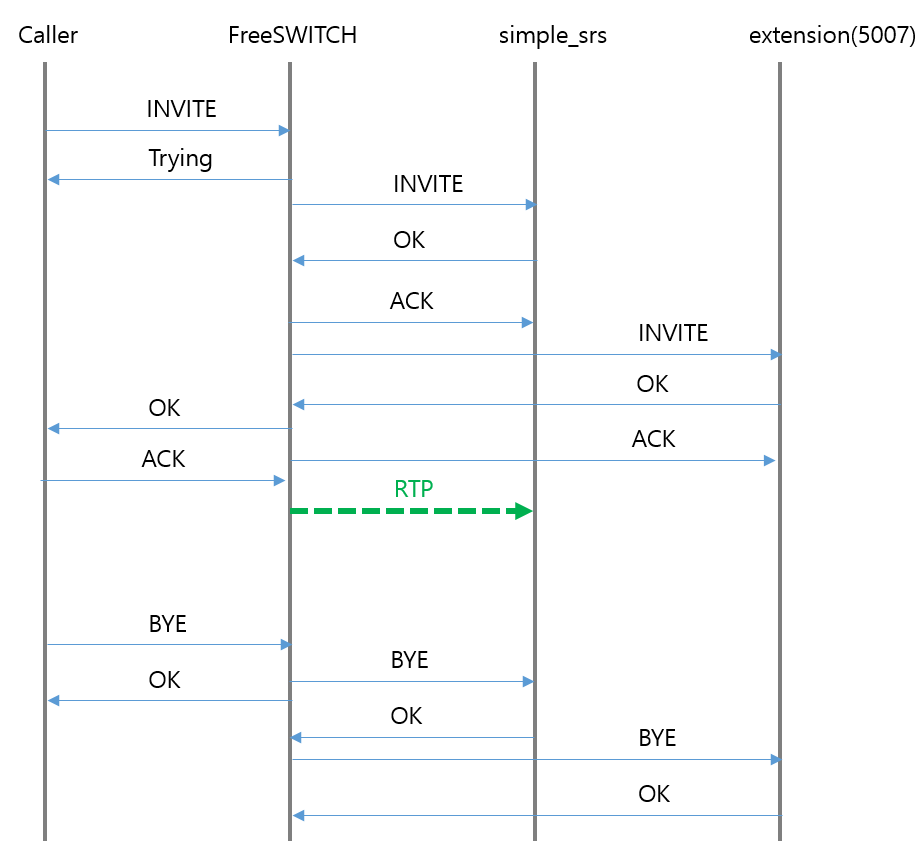
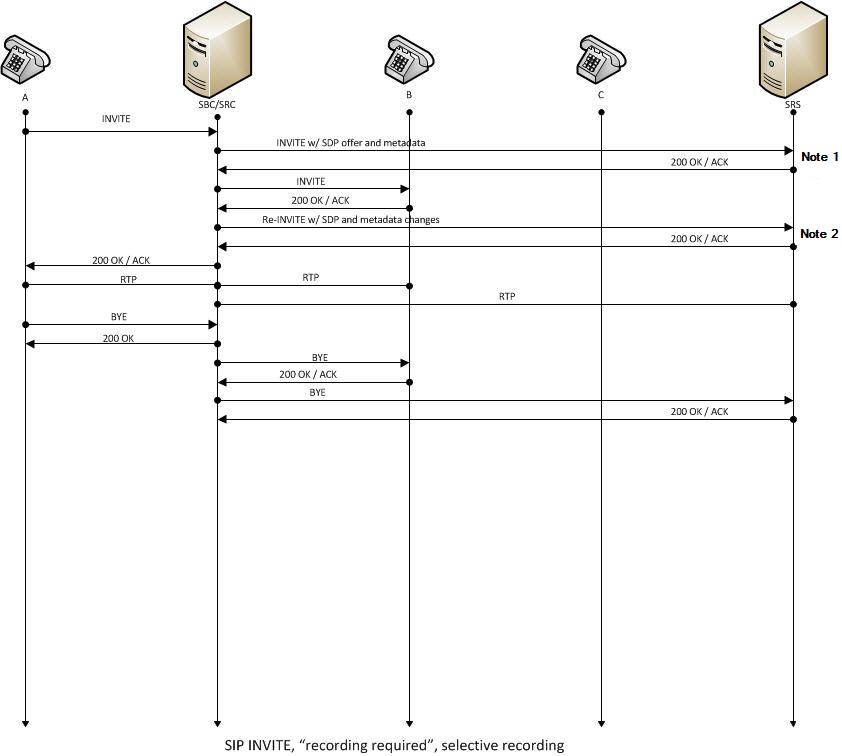
update

diff --git a/FreeSWITCH/Recording using mod_siprec/README.md b/FreeSWITCH/Recording using mod_siprec/README.md
@@ -230,7 +230,96 @@ a=sendonly
 
 <br>
 
-However, in version 1.34, the INVITE message is sent via a single stream (m=1).
+However, in version 1.34, the INVITE message is sent via a single stream (m=1). Looking at the SIPRERC call flow in the latter part, the siprec client sends an INVITE again (reinvite) at the time the actual call is made.
+The second INVITE should send an SDP in Dual stream (m=2) format to reflect that the call has been connected, but in v1.34, all data except the CSeq is sent as an INVITE identical to the first one.
+This part must be corrected.
+
+<br>
+
+📌 **SDP samples in INVITE, (reINVITE)**
+
+
+**First INVITE**
+
+```bash
+Content-Type: application/sdp
+v=0
+o=- 171 213 IN IP4 10.0.0.2
+s=-
+c=IN IP4 10.0.0.1
+t=0 0
+m=audio 6000 RTP/AVP 0
+a=rtpmap:0 PCMU/8000
+a=label:1
+
+Content-Type: application/rs-metadata+xml
+Content-Disposition: recording-session
+<?xml version='1.0' encoding='UTF-8'?>
+<recording xmlns='urn:ietf:params:xml:ns:recording'>
+        <dataMode>complete</dataMode>
+        <session id="urn:uuid:79b2fcd8-5c7f-455c-783f-db334e5d57d0">
+                <start-time>2011-06-27T17:03:57</start-time>
+        </session>
+        <participant id="urn:uuid:10ac9063-76b7-40bb-4587-08ba290d7327" session="urn:uuid:79b2fcd8-5c7f-455c-783f-db334e5d57d0">
+                <aor>sip:sipp@168.192.24.40</aor>
+                <name>sipp </name>
+                <send>urn:uuid:07868c77-ef8e-4d6f-6dd5-a02ff53a1329</send>
+                <start-time>2011-06-27T17:03:57</start-time>
+        </participant>
+        <participant id="urn:uuid:797c45f5-e765-4b12-52b0-d9be31138529" session="urn:uuid:79b2fcd8-5c7f-455c-783f-db334e5d57d0">
+                <aor>sip:service@168.192.24.60</aor>
+                <name>sut </name>
+        </participant>
+        <stream id="urn:uuid:4a72a1ed-abb2-4d7c-5f4d-6d4c36e2d4ec" session="urn:uuid:79b2fcd8-5c7f-455c-783f-db334e5d57d0">
+                <mode>separate</mode>
+                <start-time>2011-06-27T17:03:57</start-time>
+				<label>1</label>
+        </stream>
+</recording>
+```
+
+<br>
+
+**Second INVITE**
+
+```bash
+Content-Type: application/sdp
+v=0
+o=- 171 213 IN IP4 10.0.0.2
+s=-
+c=IN IP4 10.0.0.1
+t=0 0
+m=audio 6000 RTP/AVP 0
+a=rtpmap:0 PCMU/8000
+a=label:1
+m=audio 6002 RTP/AVP 0
+a=rtpmap:0 PCMU/8000
+a=label:2
+
+Content-Type: application/rs-metadata+xml
+Content-Disposition: recording-session
+<?xml version='1.0' encoding='UTF-8'?>
+<recording xmlns='urn:ietf:params:xml:ns:recording'>
+        <dataMode>partial</dataMode>
+        <session id="urn:uuid:79b2fcd8-5c7f-455c-783f-db334e5d57d0">
+                <start-time>2011-06-27T17:03:57</start-time>
+        </session>
+        <participant id="urn:uuid:797c45f5-e765-4b12-52b0-d9be31138529" session="urn:uuid:79b2fcd8-5c7f-455c-783f-db334e5d57d0">
+                <aor>sip:service@168.192.24.60</aor>
+                <name>sut </name>
+                <send>urn:uuid:4a72a1ed-abb2-4d7c-5f4d-6d4c36e2d4ec</send>
+                <start-time>2011-06-27T17:03:58</start-time>
+        </participant>
+        <stream id="urn:uuid:07868c77-ef8e-4d6f-6dd5-a02ff53a1329" session="urn:uuid:79b2fcd8-5c7f-455c-783f-db334e5d57d0">
+                <mode>separate</mode>
+                <start-time>2011-06-27T17:03:58</start-time>
+				<label>2</label>
+        </stream>
+</recording>
+```
+
+
+
 At first, I assumed that RX and TX were being sent as a single mixed stream. However, after examining the packets using tcpdump, I confirmed that 100 RTP packets were arriving per second. At ptime=20, 50 RX and 50 TX packets arrive. If they were mixed, only 50 should be arriving.
 
 Upon further investigation, I discovered that the RTP transmission port for mod_siprec was different.
@@ -417,6 +506,10 @@ simple_srs is a simple srs program created to test mod_siprec.
 It operates through the following process.
 
 ![status](./image/1.png)<br/>
+
+<div align="center">
+<a href="https://translate.google.co.kr">siprec Call flow from ORACLE</a>
+</div>
 
 <br>
 

diff --git a/README.md b/README.md
@@ -1,2 +1,10 @@
 # VoIP related codes
  
+<br> 
+
+This repository contains various resources that are helpful when operating SIP softswitches such as FreeSWITCH.
+
+* How to Use Various FreeSWITCH Modules and Scenario Writing Tips
+* How to convert audio and video files using tools such as ffmpeg and sox
+* C example code that can convert between g.711 codec and 16k PCM files
+* A tool for analyzing SIP messages in pcap files
